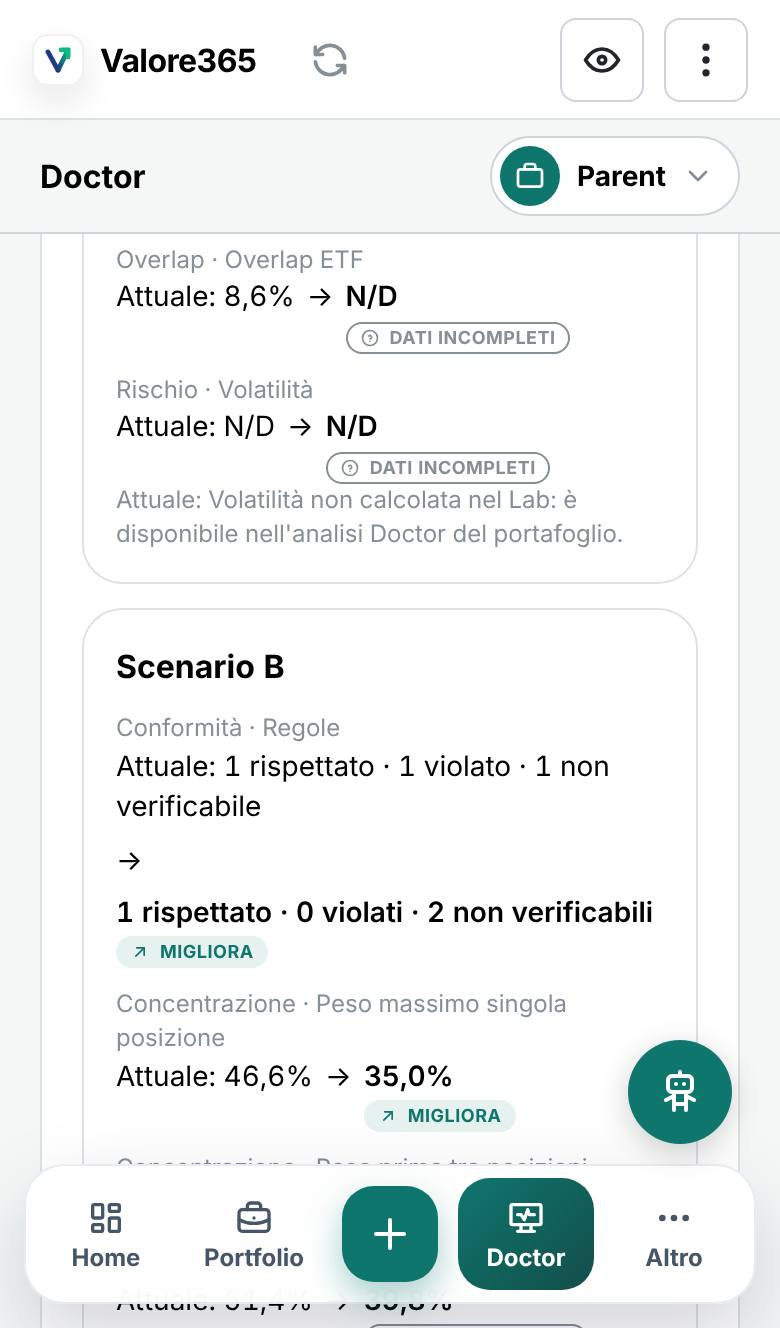
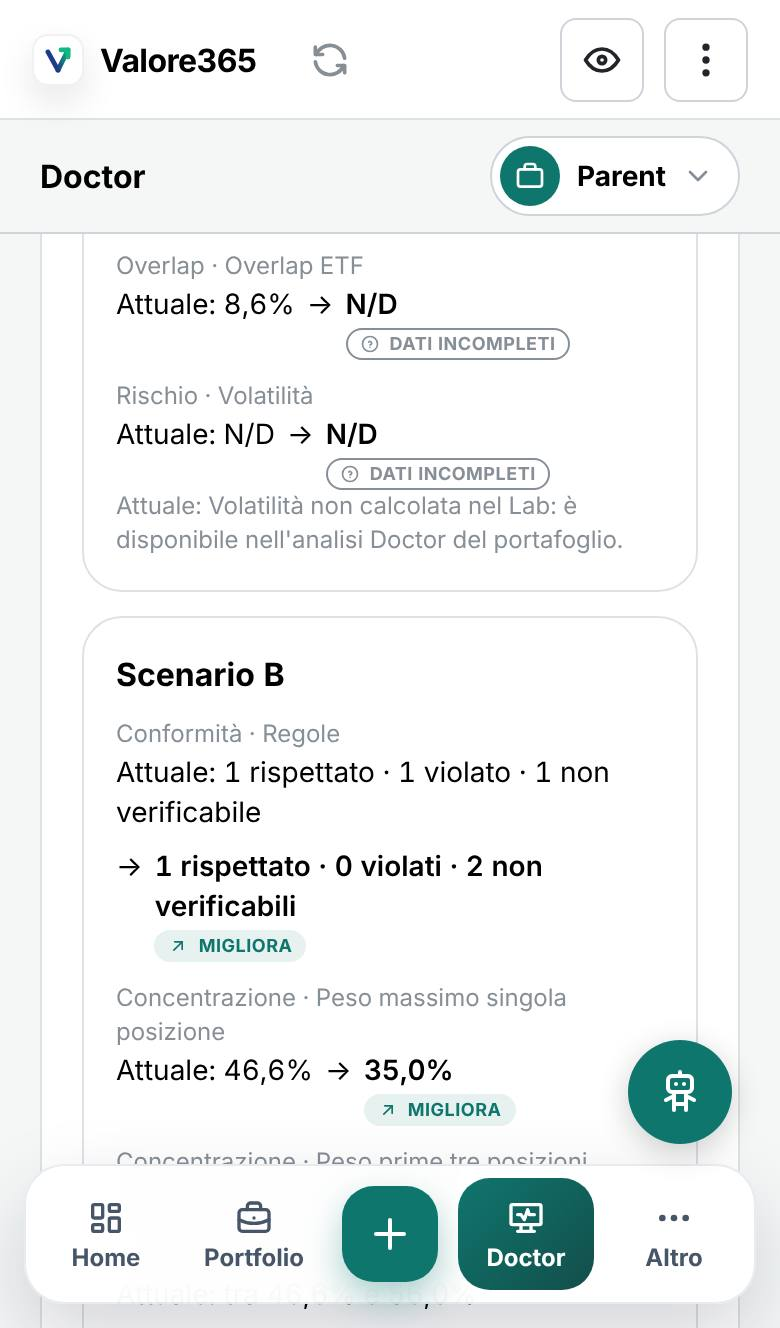
Doctor 2.0: esecuzione finale (1363 backend, 231 frontend, E2E 18/18), screenshot aggiornati, TASK-56 Done
Claude-Session: https://claude.ai/code/session_01LYuoiSETwL6FC6GeBUa1es

diff --git a/backlog/tasks/task-56 - Portfolio-Doctor-2.0-Doctor-Policy-Policy-Evaluation-Copilot-assistito-e-Scenario-Lab.md b/backlog/tasks/task-56 - Portfolio-Doctor-2.0-Doctor-Policy-Policy-Evaluation-Copilot-assistito-e-Scenario-Lab.md
@@ -1,7 +1,7 @@
 ---
 id: TASK-56
 title: "Portfolio Doctor 2.0: Doctor Policy, Policy Evaluation, Copilot assistito e Scenario Lab"
-status: "In Progress"
+status: "Done"
 priority: "high"
 created: 2026-11-04
 labels: ["doctor", "backend", "frontend", "copilot", "feature"]
@@ -22,10 +22,10 @@ Metodologia: `docs/doctor2/financial-methodology.md`.
 
 ## Acceptance criteria
 
-- [ ] Health Score standard invariato (test di regressione)
-- [ ] Policy versionate, isolate per scope, optimistic locking (409), restore
-- [ ] Evaluation 8 metriche MVP, PASS mai su dati UNKNOWN/stale, golden fixture PRD
-- [ ] Copilot: bozze tipizzate, preview, conferma UI con token monouso; MCP read-only
-- [ ] Scenario Lab: manuale, solo nuova liquidità, ribilanciamento; invarianti di capitale
-- [ ] UI: Diagnosi / I miei parametri / Laboratorio, desktop + mobile, Privacy Mode
-- [ ] Test unit/integration/sicurezza/E2E eseguiti e passati (`docs/doctor2/test-report.md`)
+- [x] Health Score standard invariato (test di regressione)
+- [x] Policy versionate, isolate per scope, optimistic locking (409), restore
+- [x] Evaluation 8 metriche MVP, PASS mai su dati UNKNOWN/stale, golden fixture PRD
+- [x] Copilot: bozze tipizzate, preview, conferma UI con token monouso; MCP read-only
+- [x] Scenario Lab: manuale, solo nuova liquidità, ribilanciamento; invarianti di capitale
+- [x] UI: Diagnosi / I miei parametri / Laboratorio, desktop + mobile, Privacy Mode
+- [x] Test unit/integration/sicurezza/E2E eseguiti e passati (`docs/doctor2/test-report.md`)

diff --git a/docs/doctor2/test-report.md b/docs/doctor2/test-report.md
@@ -172,3 +172,15 @@ Verificato contro il backend (api-contracts §8.1): le altre forme del Laborator
   mobile del confronto non va più a capo da sola (test in `DoctorLab.test.tsx`); le card mostrano
   «tra X% e Y%» quando i bounds differiscono, invece della stima puntuale (falsa precisione).
 - Carico/performance end-to-end non misurati in E2E.
+
+## Esecuzione finale pre-PR (commit `20c0942`, 5 novembre 2026)
+
+Rieseguito dal coordinatore sullo stato finale del branch, dopo tutte le correzioni:
+
+| suite | comando | esito |
+|---|---|---|
+| Backend completo (unit + integration Postgres 16 reale) | `cd src/backend && python -m pytest -q tests` | **1363 passed** |
+| Frontend lint | `npm run lint` | 0 problemi |
+| Frontend build | `npm run build` | OK |
+| Frontend unit/component | `npx vitest run --testTimeout=20000` | **231/231 passed** (35 file) |
+| E2E Playwright su stack reale | `scripts/e2e/doctor2_stack.sh start && node scripts/e2e/doctor2_e2e.cjs` | **18/18 passed**, screenshot rigenerati |
